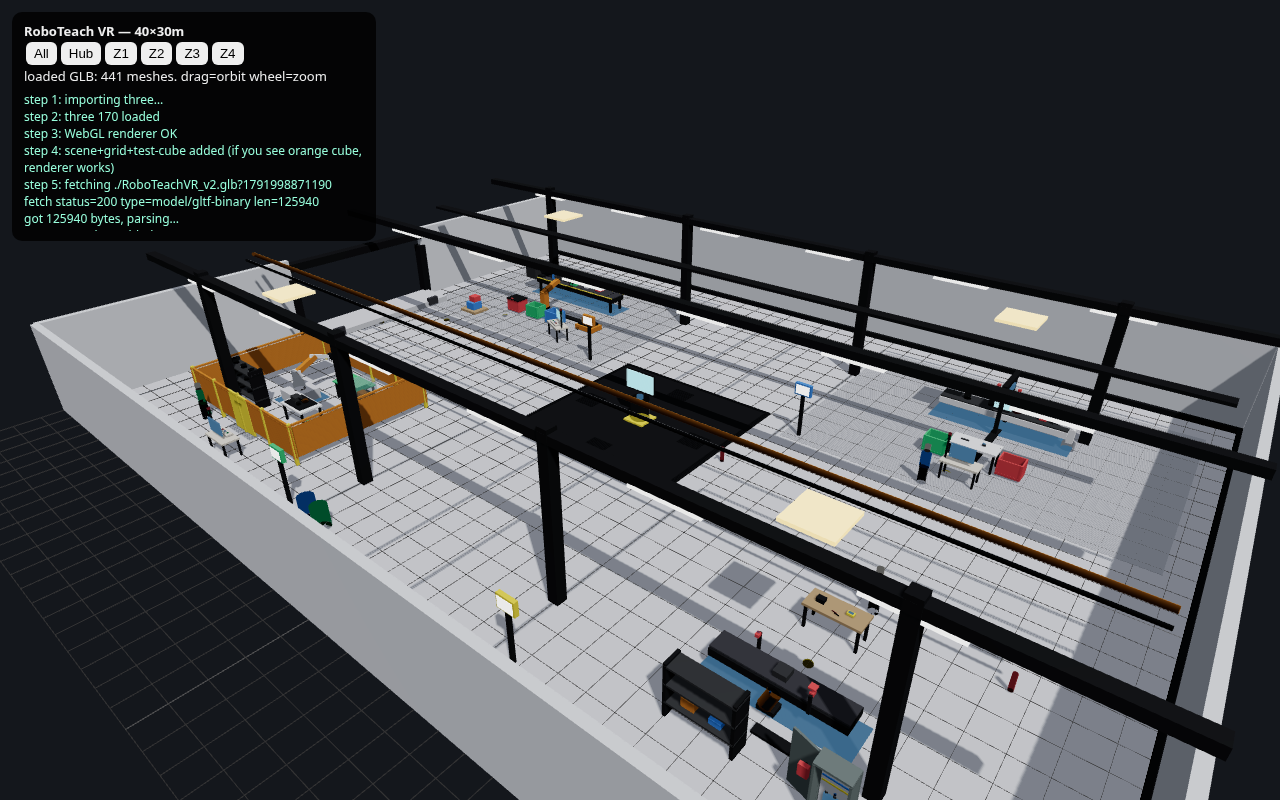
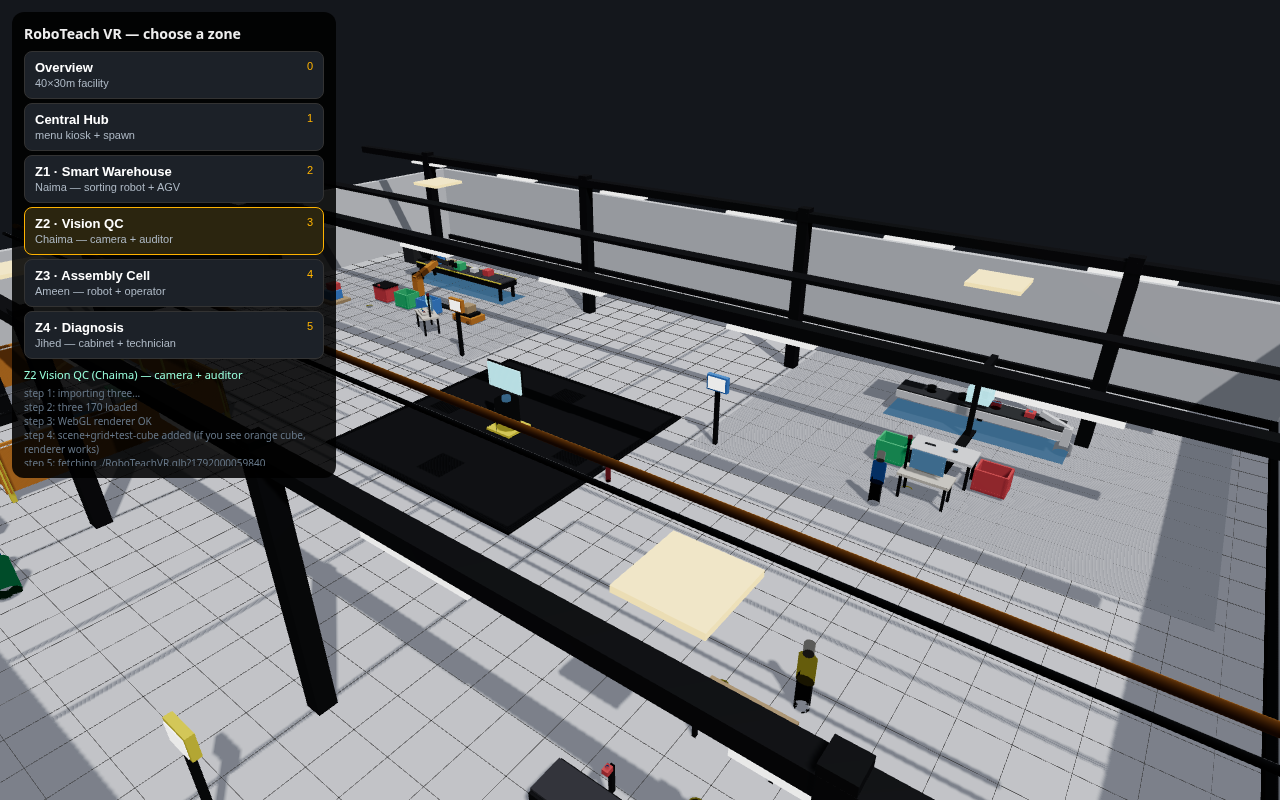
menu

diff --git a/preview.html b/preview.html
@@ -72,7 +72,7 @@ controls.update=function(){if(tween){tween.t+=1/85;const k=tween.t>=1?1:(tween.t
   camera.position.lerpVectors(tween.fromP,tween.toP,k);controls.target.lerpVectors(tween.fromT,tween.toT,k);
   if(tween.t>=1)tween=null;}return _update();};
 // explicit fetch check so HTTP errors are visible
-const qp=new URLSearchParams(location.search); const modelFile=qp.get('model')||'./RoboTeachVR_v2.glb';
+const qp=new URLSearchParams(location.search); const modelFile=qp.get('model')||'./RoboTeachVR.glb';
 const url=modelFile+(modelFile.includes('?')?'&':'?')+Date.now();
 log('step 5: fetching '+url);
 fetch(url).then(async r=>{
